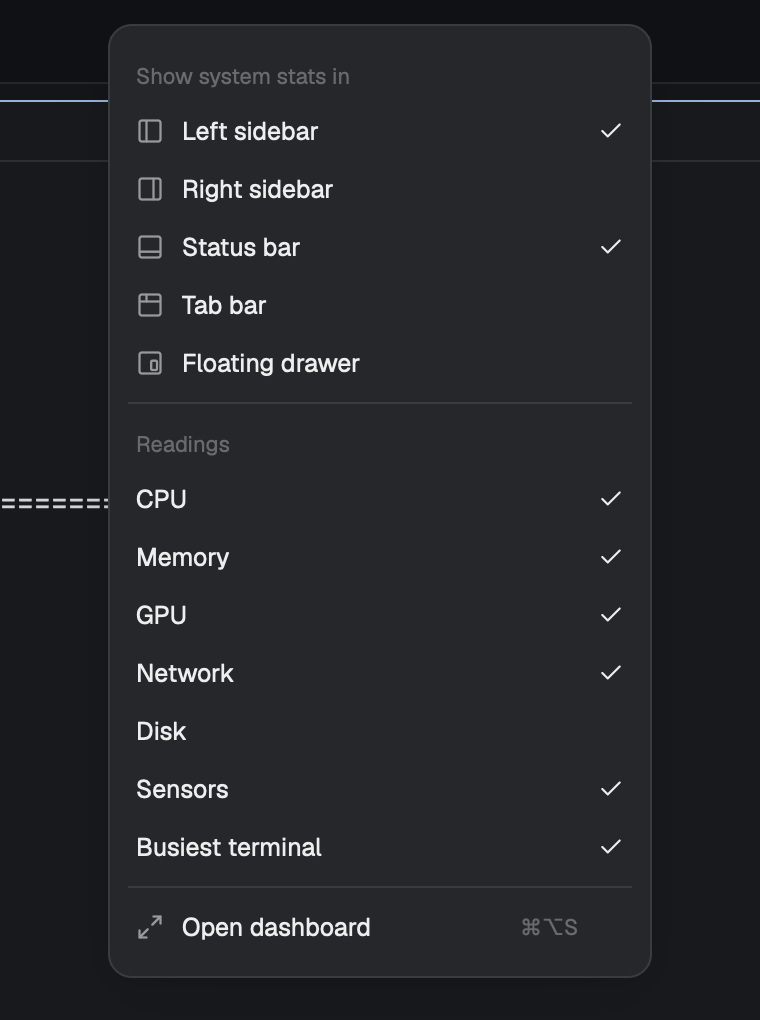
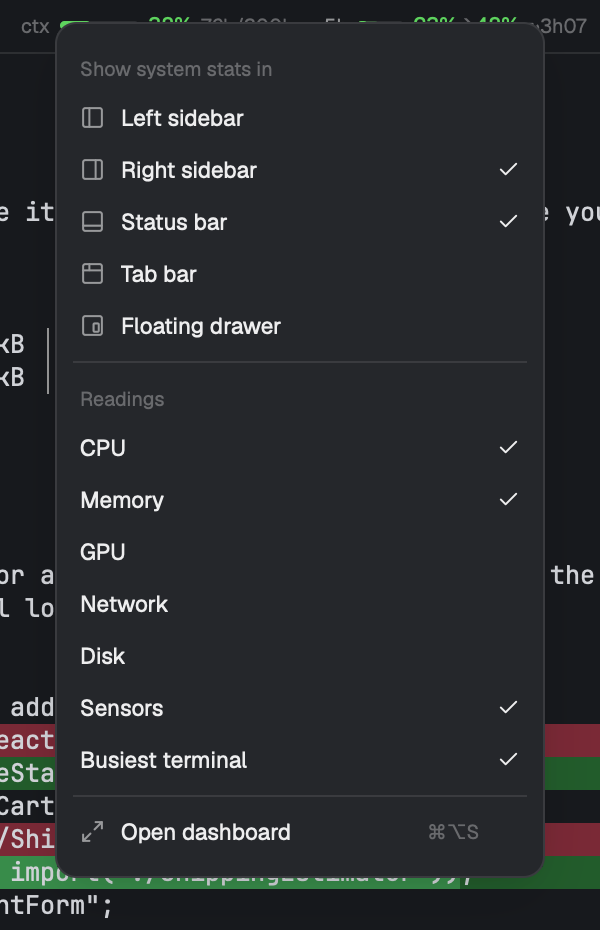
docs: show the mod in a full Herdr window, every other mod around it
The README's pictures are new, taken on the showcase stage: one made-up Herdr window with
all the mods running, this one in front and the rest dimmed behind it. A line under the main
picture says what else is in the frame, and a Works well with section links the other mods.
docs/demo says how to take the pictures again.

diff --git a/README.md b/README.md
@@ -5,12 +5,14 @@
 A mod for the [Herdr](https://herdr.dev) desktop app: this machine's CPU, memory, GPU, network,
 disk and temperatures, drawn natively beside your terminals, and **which agent is using them**.
 
-![The Herdr window with two spaces, shop and api. A cargo release build fills the terminal. At the bottom of the left sidebar a System panel shows one line per reading: CPU with a history chart and a row of cells for the performance and efficiency cores, memory as a stacked bar, GPU, network in and out, the CPU, SoC, SSD and battery temperatures, and last the busiest terminal, Cargo in shop › build. The status bar repeats CPU, memory, GPU and network at its right end.](preview.png)
+![The Herdr window with the stats as the middle panel of the right sidebar, titled System · sams-macbook: the CPU with its history chart across the panel and a row of cells for the performance and efficiency cores, memory as a split bar of app, wired, compressed and free with its history below, the sensors from the CPU, SoC and SSD to the battery and the fastest fan, and the terminals by CPU, with Claude Code in shop › 1 first. The status bar ends with a line of the CPU chart and figure, memory and temperature. Around them: the Sessions sidebar on the left with the spaces of two machines, Local and studio; Claude Code speeding up the checkout page in the middle, under a header with its model, context and limits; the pull requests above the stats; and what's running below them, mostly under two notifications in the bottom right corner. Everything but the stats panel and the status bar is dimmed. The sessions are made up; the readings are the Mac's own.](preview.png)
+
+*Around it: the [Sessions sidebar](https://github.com/jeffarese/herdr-agents-sidebar) on the left, a pane header with the model and limits, [pull requests](https://github.com/jeffarese/herdr-prs) above the stats on the right with what's running below, and two notifications in the corner. Every session in it is made up.*
 
 Agents compile, test and index all day. When the fans spin up, the question isn't "how busy is
 the machine" but "**which of my terminals is it?**" herdr-stats answers that from Herdr itself:
 it knows which processes belong to which terminal, so CPU and memory roll up to
-*Cargo · shop › build* rather than to a PID. Click it and you're there.
+*Claude Code · shop › 1* rather than to a PID. Click it and you're there.
 
 This is an unofficial mod. It is not affiliated with Herdr.
 
@@ -56,7 +58,7 @@ The stats start hidden. **Show in…** (the button in the dashboard, or the `⋯
 lists the places your layout has room for. Each is a switch, and the same menu picks the
 readings, shared by every place.
 
-<p align="center"><img src="docs/media/menu.png" width="300" alt="The Show in… menu. Under Show system stats in: Left sidebar and Status bar are checked; Right sidebar, Tab bar and Floating drawer are not. Under Readings: CPU, Memory, GPU, Network, Sensors and Busiest terminal are checked, Disk is not. Last, Open dashboard with its key, ⌘⌥S."></p>
+<p align="center"><img src="docs/media/menu.png" width="300" alt="The Show in… menu. Under Show system stats in: Right sidebar and Status bar are checked; Left sidebar, Tab bar and Floating drawer are not. Under Readings: CPU, Memory, Sensors and Busiest terminal are checked; GPU, Network and Disk are not. Last, Open dashboard with its key, ⌘⌥S. Behind it, a little of a made-up agent's screen."></p>
 
 | Place | What you get |
 | --- | --- |
@@ -66,7 +68,7 @@ readings, shared by every place.
 | **Tab bar** | The same line at the end of the tab bar. |
 | **Floating drawer** | Figures peek from the window's edge; hover and the charts slide out. Drag it to any edge. |
 
-![The Herdr window with the stats in three other places: a line of figures at the right end of the tab bar; a right sidebar with the CPU history and cores, memory, GPU, network, sensors and the terminals ranked by CPU; and a drawer peeking from the bottom of the left edge with the CPU, memory, GPU, network and temperature figures stacked.](docs/media/places.png)
+![The Herdr window with the stats in four other places at once: a panel at the bottom of the left sidebar with CPU, its history and core cells, memory, the CPU, SoC, SSD and battery temperatures, and Claude Code in shop › 1 as the busiest terminal; the tab bar, shown above the pane, ending with a line of CPU, memory and temperature; the same line at the end of the status bar; and a drawer peeking from the right edge, over the pull requests, with the CPU, memory and temperature figures stacked. The Sessions sidebar, the agent's screen, the pull requests and what's running fill the rest, with two notifications in the corner. The sessions are made up.](docs/media/places.png)
 
 Herdr's own layouts are read-only, so on one of them your first pick makes a personal copy
 (`main-stats`) and switches to it; the menu says so before you click.
@@ -75,7 +77,7 @@ Herdr's own layouts are read-only, so on one of them your first pick makes a per
 
 **⌥⌘S**, or click any reading.
 
-![The dashboard over the Herdr window, titled System, studio, live. On the left: CPU with a two-minute history and every core, memory broken into app, wired, compressed, free and swap, GPU, network in and out, the disk, and sensors from the CPU to the fastest fan. On the right: the terminals by CPU, Cargo in shop › build first, then Claude Code in shop and Node in api, and below them the busiest processes.](docs/media/dashboard.png)
+![The dashboard over the Herdr window, titled System, sams-macbook, with its uptime, live. On the left: the CPU with its history and a cell for every performance and efficiency core, memory broken into app, wired, compressed, free and swap, GPU, network in and out, the disk, and the sensors from the CPU to the fastest fan. On the right: the terminals by CPU, Claude Code in shop › 1 first, then the other agents, servers and shells of the made-up spaces, and below them the busiest processes. Behind it: the Sessions sidebar, the agent's screen, the pull requests, the stats in the right sidebar and two notifications. The sessions are made up.](docs/media/dashboard.png)
 
 On the left, each reading with room to read it. On the right, every terminal on this computer
 by CPU, with its space and tab, and your busiest processes. `↑` `↓` and `⏎` (or a click) go to a
@@ -152,7 +154,7 @@ sampler and deletes the mod and its cache.
 npm test                    # the mod: views, placement, feed, installer (node, no Herdr needed)
 npm run test:sampler        # the sampler's own tests (cargo)
 scripts/build-sampler.sh    # release build, copied into mods/herdr-stats/bin
-sh docs/demo/record.sh      # take the README's pictures again, on a synthetic stage
+sh docs/demo/showcase-shots.sh <stage>   # take the README's pictures again (docs/demo/README.md)
 ```
 
 The mod is plain ES modules against Herdr's `gpui-kit` and `herdr` APIs; the tests run the
@@ -163,6 +165,16 @@ the pictures are made without anything personal in them. Changes are in
 
 The sensor code grew out of [herdr-stats](https://github.com/jeffarese/herdr-stats), the plugin
 for the herdr terminal multiplexer.
+
+## Works well with
+
+The pictures above are one Herdr window with these mods running together:
+
+- [Sessions sidebar](https://github.com/jeffarese/herdr-agents-sidebar): every agent and shell on all your machines in one sidebar, with sub-agents and background work.
+- [Pull requests](https://github.com/jeffarese/herdr-prs): your pull requests and the state of their checks, in a sidebar.
+- [Quick switcher](https://github.com/jeffarese/herdr-bar-mod): ⌘K to any agent, tab, pane or space on every machine.
+- [Mod hub](https://github.com/jeffarese/herdr-mod-hub): browse the gallery, read a mod's code before installing it, and manage your mods.
+- [Outside](https://github.com/jeffarese/herdr-outside): the agents and terminals herdr-core runs outside your spaces.
 
 ## License
 

diff --git a/docs/demo/README.md b/docs/demo/README.md
@@ -1,45 +1,63 @@
 # The README's pictures
 
 [preview.png](../../preview.png) and the pictures in [docs/media](../media) show the real mod in
-the real Herdr app, on a stage that is synthetic from end to end. Nothing in them comes from a
-real project, person or machine name.
+the real Herdr app, on the showcase stage: one made-up Herdr window that every one of these mods'
+READMEs pictures, with all the mods running together. Sam works at Acme on a laptop and a Mac
+Studio; the spaces (shop, api, web, docs, search), the agents, the pull requests, the servers
+and the toasts are all made up. Nothing in the pictures comes from a real project, person or
+machine.
 
-**Real:** the Herdr app, herdr-core, this repository's mod, its sampler and its installer, and
-the readings themselves (CPU, memory, disk, temperatures of the Mac that takes them).
+**Real:** the Herdr app, herdr-core, this repository's mod as the working tree has it (with its
+sampler), the other mods from their own repositories, and the readings themselves: CPU, memory,
+temperatures and fans of the Mac that takes the pictures.
 
-**Synthetic:**
+**Made up:** everything the readings are about. The terminals run the stage's stand-ins, so the
+busiest terminal is the Claude Code stand-in in shop (it keeps about 0.7 of a core busy), and
+the sampler runs with `HERDR_STATS_HOST=sams-macbook` and `HERDR_STATS_TOP_UNDER` set to the
+stage's folder, so the host is Sam's and the busiest processes are the stage's own.
 
-- **The programs.** [standin.c](standin.c), compiled as `claude`, `cargo` and `node`, prints a
-  few plausible lines and keeps some cores busy, in waves, so the charts have a shape and the
-  terminal list has something to rank. They read and write nothing.
-- **The host name and process list.** The stage runs the sampler with
-  `HERDR_STATS_HOST=studio`, and with `HERDR_STATS_TOP_UNDER` set to the stage's folder, so the
-  busiest processes are the stage's own programs, never the rest of the Mac's.
-- **The projects.** `~/code/shop` and `~/code/api` are empty folders.
-- **The app.** A second Herdr app whose home is in the stage, with its own herdr-core, the
-  welcome already seen and usage reports off.
+The stage itself, its cast and its stand-ins are the showcase kit's, in
+`~/workspace/herdr/herdr-showcase` (a local folder, not part of this repository; its `README.md`
+and `BRIEF.md` explain it).
 
-Nothing of yours is read or written, and your own spaces don't show.
+## The scenes
+
+- **[showcase.sh](showcase.sh)** is this mod's hook for the kit. With no scene it sets the main
+  one, which the kit's `stage.sh` runs after its default scene: the stats get the larger share
+  of the right sidebar (weights 1, 2.4 and 1 beside the pull requests and Running), so they draw
+  their tall column, and a line of them goes at the end of the status bar. `dashboard` opens the
+  dashboard over that; `menu` puts the Show in… menu in a floating block at the top of the
+  window (in the app it is a popup from the `⋯` of any copy); `places` takes the stats out of
+  the right sidebar and puts them in the left sidebar, the tab bar (which the stage's layout
+  otherwise hides) and a drawer on the right edge, beside the status bar line.
+- Every place is added and taken out with the mod's own placement code, through
+  **[place.mjs](place.mjs)**, which is what Show in… does. The hook only sets the sizes, the
+  drawer's edge and the tab bar's visibility.
+- **[showcase-shots.sh](showcase-shots.sh)** runs the scenes one after another and takes each
+  picture with the kit's `shoot.sh`, which waits until nobody has typed for a minute.
 
 ## Take them again
 
 ```sh
-sh docs/demo/record.sh
+w=$(SHOWCASE_TFVPN=0 SHOWCASE_HOOK=$PWD/docs/demo/showcase.sh sh ~/workspace/herdr/herdr-showcase/stage.sh)
+sleep 120                               # the charts fill their width in two minutes
+sh docs/demo/showcase-shots.sh "$w"
+sh ~/workspace/herdr/herdr-showcase/stage.sh --down "$w"
 ```
 
-It needs the Herdr app, herdr-core, Node, python3 and a C compiler (`xcode-select --install`).
-The app draws the pictures itself (`herdr-app shot`), so no screen recording permission is
-involved. A run takes about three minutes, most of it letting the charts fill.
+`SHOWCASE_TFVPN=0` because this README is public: the VPN switch stays out of the pictures.
+Run from the repository's root. The pictures are 3200 × 1942 (the window at 2x); the menu is a
+crop of its picture (`MENU_CROP`, in pixels: x,y,width,height). One scene at a time, to look
+before shooting:
 
-- **[stage.sh](stage.sh)** builds the stand-ins, starts the core and the second app, and prints
-  the stage's folder. `stage.sh --down <folder>` stops everything and deletes it.
-- **[shots.sh](shots.sh)** runs the installer, opens two spaces and takes the pictures, placing
-  the stats with [place.mjs](place.mjs), which is the mod's own placement code.
-- **[record.sh](record.sh)** runs both and takes the stage down.
+```sh
+sh docs/demo/showcase.sh "$w" places
+sh ~/workspace/herdr/herdr-showcase/shoot.sh "$w" /tmp/places.png
+```
 
-Before you run it:
+## The older stage
 
-- **The second app's window comes to the front for each picture,** because the app only draws
-  while its window can be seen. Keys you type meanwhile go to it; its terminals don't show them.
-- **The stand-ins keep up to about eight cores busy** while it runs.
-- **Starting the Herdr app installs an app update that was waiting,** as any start does.
+[stage.sh](stage.sh), [shots.sh](shots.sh), [record.sh](record.sh) and [standin.c](standin.c)
+made the README's earlier pictures on a stage of their own (stand-ins named `claude`, `cargo`
+and `node` in two spaces). They no longer make any of the README's pictures and are kept as
+they were. `place.mjs` is shared with the showcase hook.
